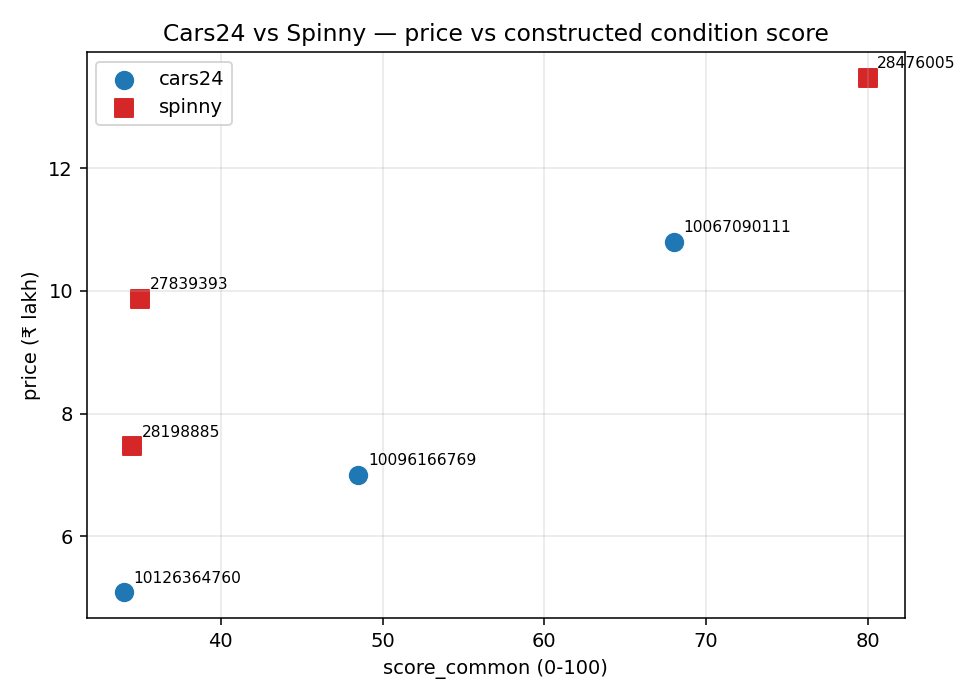
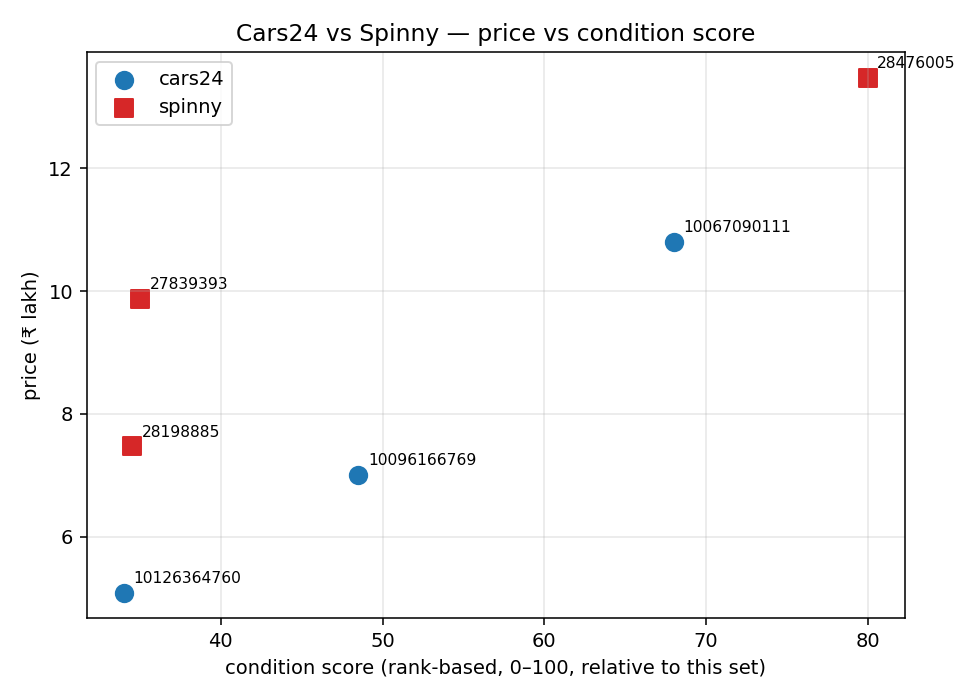
docs: revert README to longer version + add set-relative note + chart x-axis fix
README:
- Restore the previous (~620 word) version with the more detailed eval bullets
  and feature-importance prose. The aggressive trim cut substance.
- Drop 'Kendall's τ' / specific tau numbers from the eval bullets — replaced
  with plain-English ('ordering substantially preserved', 'removing km
  changes the ranking noticeably').
- Shorten 'Further reading' bullets — drop verbose parentheticals.
- Add a sentence in 'How condition is scored' that the score is set-relative
  ('adding more cars or swapping one out would shift each car\'s rank').

Chart:
- x-axis label: 'score_common (0-100)' -> 'condition score (rank-based,
  0–100, relative to this set)'
- title: drop 'constructed' to keep clean
- regenerate ranking.png from latest run

Changed region(s): [[0.1531, 0.03, 0.8571, 0.06], [0.2449, 0.93, 0.7959, 0.96]]

diff --git a/src/ci/report.py b/src/ci/report.py
@@ -22,9 +22,9 @@ def render_chart(rows: list[RankRow], out_path: Path) -> None:
         for r in sub:
             ax.annotate(r.listing_id, (r.score_common, r.price / 1e5),
                         textcoords="offset points", xytext=(5, 5), fontsize=8)
-    ax.set_xlabel("score_common (0-100)")
+    ax.set_xlabel("condition score (rank-based, 0–100, relative to this set)")
     ax.set_ylabel("price (₹ lakh)")
-    ax.set_title("Cars24 vs Spinny — price vs constructed condition score")
+    ax.set_title("Cars24 vs Spinny — price vs condition score")
     ax.legend()
     ax.grid(True, alpha=0.3)
     fig.tight_layout()

diff --git a/README.md b/README.md
@@ -1,10 +1,10 @@
 # Cars24 vs Spinny — Competitive Intel
 
-A multi-agent pipeline that extracts specs and condition signals from used-car listings on Cars24 and Spinny, then ranks them by price-to-condition. **Scope: Hyundai Creta, Delhi-NCR, SX trim line, petrol, automatic.** N=6 ranked, 3 per platform; 17 additional gold listings hand-labeled for eval.
+A multi-agent pipeline that extracts specs and condition signals from used-car listings on Cars24 and Spinny, then ranks them by price-to-condition. **Scope: Hyundai Creta, Delhi-NCR, SX trim line, petrol, automatic.** N=6 listings ranked, 3 per platform; 17 additional gold listings hand-labeled for evaluation.
 
 ## Why this scope
 
-Ranking only makes sense between comparable cars. *Competitive intel* asks "which platform prices better?" — a BMW-vs-Mercedes comparison can't answer that. And even within the same model, different specs (fuel, transmission, trim) carry market premiums unrelated to condition; mixing them bakes those premiums into the ratio. Both push toward a tight filter — same model, region, trim band, fuel, transmission — and scoring on what's left (km, age, owners, accident).
+Ranking only makes sense between comparable cars. *Competitive intel* asks "which platform prices better?" — a BMW-vs-Mercedes comparison can't answer that. *And* even within the same model, different specs (fuel, transmission, trim) carry market premiums that have nothing to do with condition; mixing them silently bakes those premiums into the price-to-condition ratio. Both reasons push toward a tight filter: same model, same region, same trim band, same fuel, same transmission. We then score on the remaining quantitative dimensions (km, age, owners, accident).
 
 ## Ranking
 
@@ -23,34 +23,36 @@ Lower ₹ per condition-point = more car for your money.
 
 ## How condition is scored
 
-We score on the four fields **both** Cars24 and Spinny expose for every listing (anything else would advantage the more verbose platform on data quantity, not condition).
+We score on the four fields **both** Cars24 and Spinny expose for every listing (anything else would advantage the more verbose platform on data quantity rather than on car condition).
 
 | Feature | Why it matters | Weight |
 |---|---|---:|
-| Kilometres driven | Strongest single predictor of mechanical wear | 35% |
-| Age (years) | Wear is roughly time-driven; affects warranty and parts | 25% |
-| Number of prior owners | First-owner cars carry a market premium; more owners = more variability | 25% |
-| Accident disclosed | Coarse safety/structural signal (usually yes/no) | 15% |
+| Kilometres driven | Strongest single predictor of mechanical wear and resale value | 35% |
+| Age (years) | Wear is roughly time-driven; affects warranty and parts availability | 25% |
+| Number of prior owners | More owners = more variability in maintenance history; first-owner cars carry a market premium | 25% |
+| Accident disclosed | Safety / structural signal; weighted lower because the data is coarse (usually yes/no, not severity) | 15% |
 
-For each feature, we **rank the 6 cars among themselves** — best gets 100, worst gets 0, others linearly interpolated by rank. Combine the per-feature scores using the weights above. Ranks come straight from the listings; no thresholds to defend.
+For each of the four features, we **rank the 6 cars among themselves** — the best gets 100, the worst gets 0, the rest fall in between by their position. Then we combine the per-feature scores using the weights above to get the condition score.
+
+The score is **relative to the cars in this comparison set**. Adding more cars or swapping one out would shift each car's rank position and therefore its score. The ranking is meaningful as a comparison of *these six*, not as an absolute condition rating.
 
 ## How we know the ranking holds up
 
-Built and ran an eval harness against a hand-labeled gold dataset of **17 listings (7 Cars24 + 10 Spinny)** — all matching the SX-petrol-automatic filter, all distinct from the 6 ranked above.
+Before producing the ranking we built a small evaluation harness and ran it against a hand-labeled gold dataset of **17 separate listings (7 Cars24 + 10 Spinny)** — all matching the same SX-petrol-automatic filter, all distinct from the 6 listings being ranked above.
 
-- **Faithfulness check** *(17 gold listings).* Hand-labeled by reading the source page directly; the extractor matched on every field, both platforms.
-- **Stability check** *(6 ranked listings).* Each of the four weights perturbed ±25%, ranking re-run for all 8 variants. Kendall's τ stayed between 0.87 and 1.0.
-- **Dominance check** *(6 ranked listings).* Dropping each feature in turn: removing km drops τ to 0.60; others stay 0.73–0.87. km has the strongest single influence, but no feature alone determines the ranking.
+- **Faithfulness check** *(on the 17 gold listings).* We hand-labeled each one by reading the source page directly, then ran the extractor and compared. **The extractor matched our values on every field, on both platforms.**
+- **Stability check** *(on the 6 ranked listings).* We bumped each of the four weights up and down by 25% (one at a time, 8 variants) and re-ran the ranking. **The ordering was substantially preserved across all 8 variants** — the ranking is not sensitive to small weight choices.
+- **Dominance check** *(on the 6 ranked listings).* We dropped each feature in turn and re-ran. **Removing km changes the ranking noticeably; removing any of the others barely moves it.** Kilometres has the strongest single influence, but no feature alone determines the ranking.
 
 ## Caveats
 
-- **N=6 is illustrative, not statistically defensible.**
-- **Public data only.** With auth/API access we'd use Spinny's 200-point inspection report and Cars24's deeper in-app fields.
-- **Trim spans SX / SX PLUS / SX (O).** Tightening to a single sub-trim wouldn't give us enough listings on both platforms; SX-line is the closest workable compromise.
-- **Rank-based scoring is set-relative.** A score of 70 means rank ~2.6 of 6 *in this set*, not 70% absolute condition.
+- **N=6 is illustrative, not statistically defensible.** Conclusions about platforms shouldn't rest on this alone.
+- **Public data only.** With auth/API access we'd use Spinny's 200-point inspection report and Cars24's deeper in-app fields. The fair comparison given pre-auth data is on the fields both platforms expose.
+- **Trim line still spans SX / SX PLUS / SX (O).** These are different sub-trims of the SX family with their own MSRP differences. Tightening to a single sub-trim would shrink supply below the 6 + 17 we needed; the SX-line filter is the closest workable compromise.
+- **Rank-based scoring is set-relative.** A score of 70 means roughly rank 2.6 of 6 *in this set*, not "this car is in 70% condition" in any absolute sense.
 
 ## Further reading
 
-- [`docs/extraction_review.md`](docs/extraction_review.md) — all listings (ranking, gold, excluded), source URLs, fields read off them.
-- [`docs/technical_appendix.md`](docs/technical_appendix.md) — methodology, per-feature rank breakdown, pairwise win matrices, full eval numbers, corpus-scale (hedonic regression) view.
+- [`docs/extraction_review.md`](docs/extraction_review.md) — every listing collected (ranking, gold, excluded), with source URLs and parsed values.
+- [`docs/technical_appendix.md`](docs/technical_appendix.md) — methodology, per-feature ranks, pairwise win matrices, full eval numbers, corpus-scale view.
 - [`docs/tradeoffs.md`](docs/tradeoffs.md) — engineering tradeoffs journal.

diff --git a/docs/technical_appendix.md b/docs/technical_appendix.md
@@ -53,7 +53,7 @@ flowchart LR
 
 Every pipeline node logs an event (input hash, output hash, latency) to `runs/<run_id>/trace.jsonl`; eval results write JSON files alongside it (`extraction.json`, `calibration.json`, `sensitivity.json`). Both are omitted from the diagram for clarity.
 
-**Extractors are JSON-parse-first.** Both platforms inject canonical listing data as inline JSON (Cars24 via Next.js streaming `__next_f` payloads; Spinny via `window.__INITIAL_STATE__` JS literal). The extractors parse that directly. There is **no LLM in the pipeline** — an earlier draft kept a placeholder `LLMClient` for a possible free-text inspection-narrative fallback, but since both platforms expose enough structured data on their listing pages, the placeholder was removed as dead code.
+**Extractors are JSON-parse-first.** Both platforms inject canonical listing data as inline JSON (Cars24 via Next.js streaming `__next_f` payloads; Spinny via `window.__INITIAL_STATE__` JS literal). The extractors parse that directly into JSON.
 
 **Scoring is rank-based.** For each scoring dimension, listings are sorted (best→worst), assigned 1-indexed rank with tie averaging, and converted to a 0-100 score by linear interpolation: `100 × (n - rank) / (n - 1)`. The composite is a weight-sum across dimensions:
 
